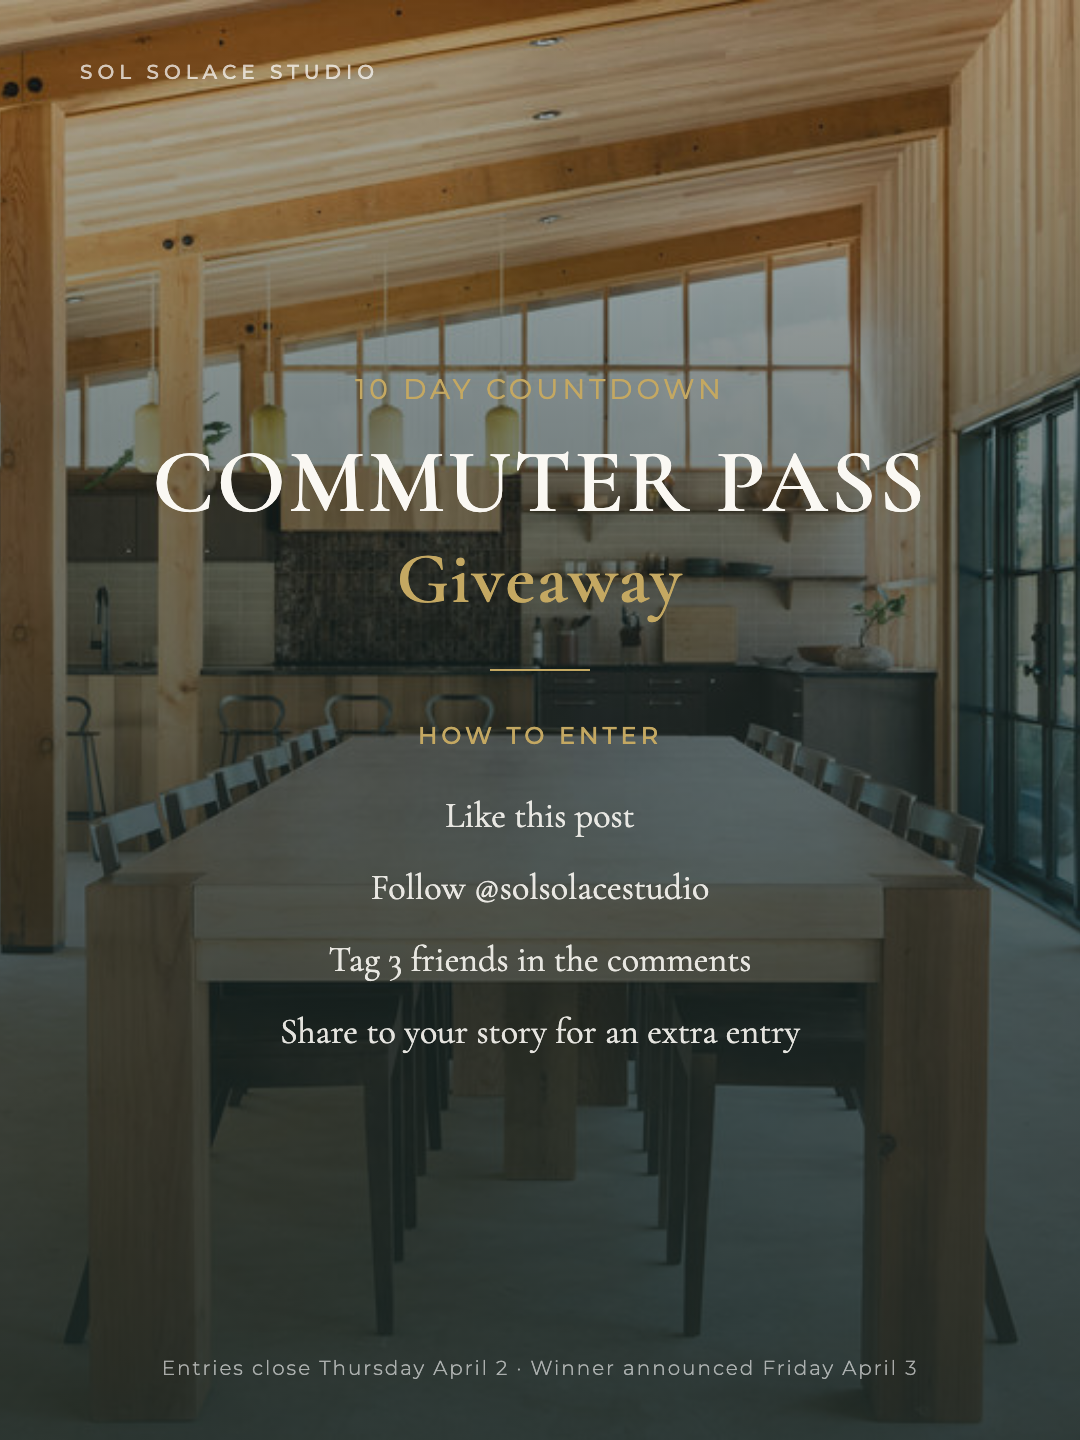
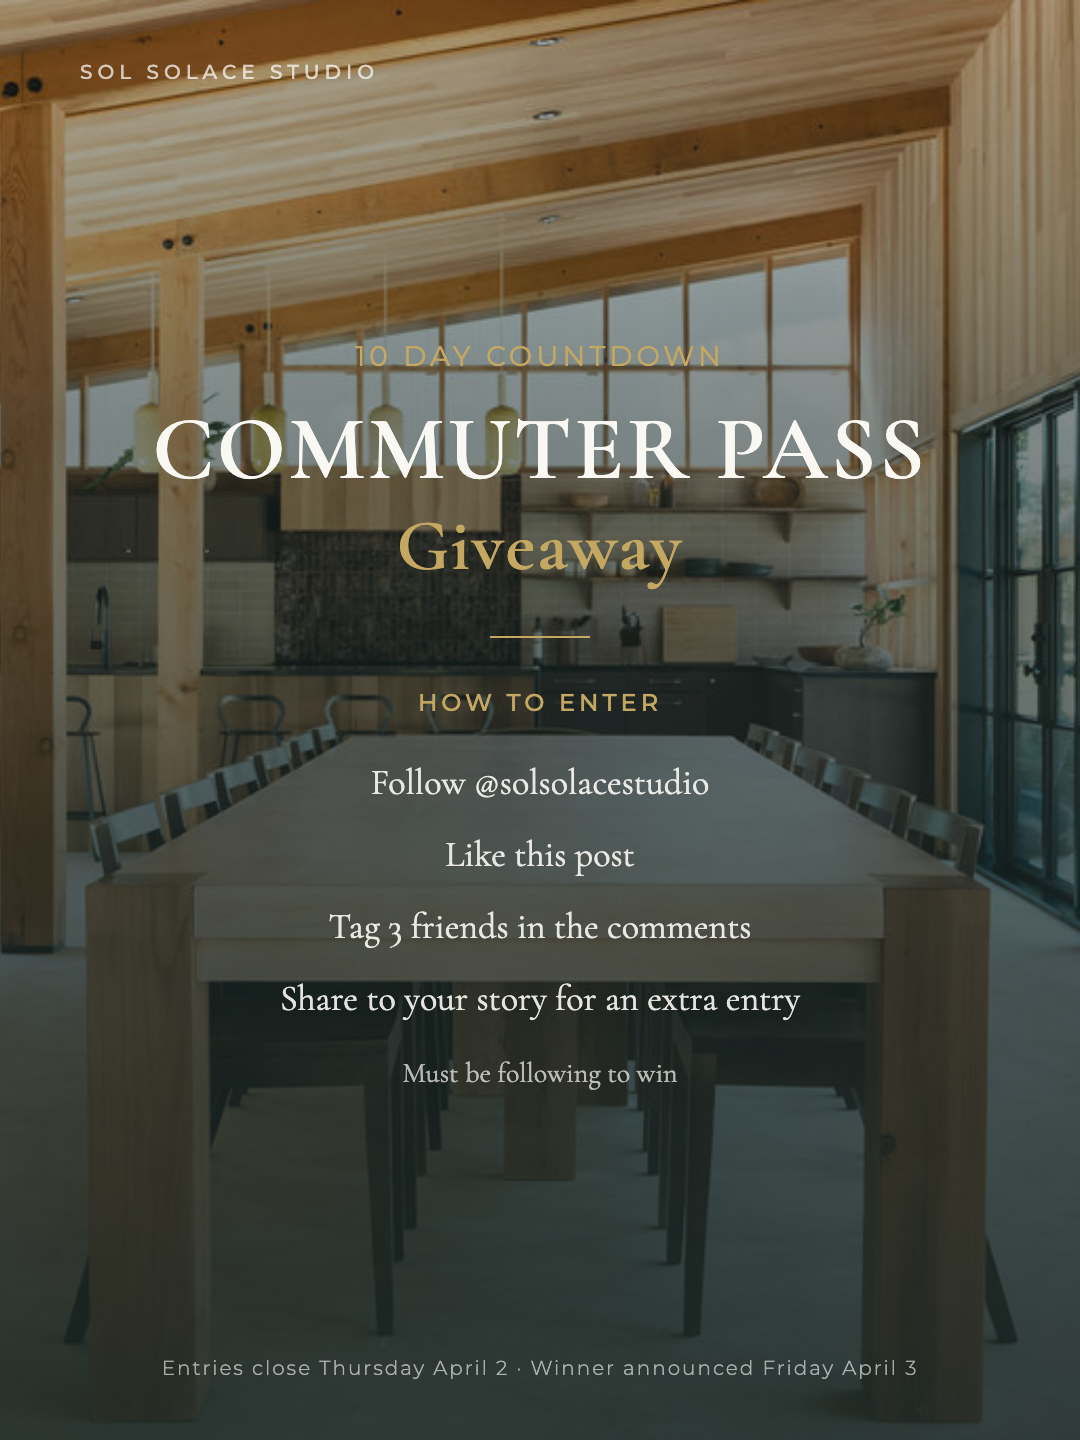
Add 'must be following to win' to giveaway slide 1

Changed region(s): [[0.2444, 0.4688, 0.7333, 0.75], [0.1222, 0.2188, 0.6722, 0.4375], [0.6722, 0.2812, 0.8556, 0.375]]

diff --git a/ads/giveaway/post1-announcement.html b/ads/giveaway/post1-announcement.html
@@ -130,10 +130,11 @@ body {
   <div class="divider"></div>
   <div class="how-to">How to Enter</div>
   <ul class="steps">
-    <li>Like this post</li>
     <li>Follow @solsolacestudio</li>
+    <li>Like this post</li>
     <li>Tag 3 friends in the comments</li>
     <li>Share to your story for an extra entry</li>
+    <li style="margin-top:10px; font-size:28px; opacity:0.7;">Must be following to win</li>
   </ul>
   <div class="bottom-note">Entries close Thursday April 2  ·  Winner announced Friday April 3</div>
 </div>
